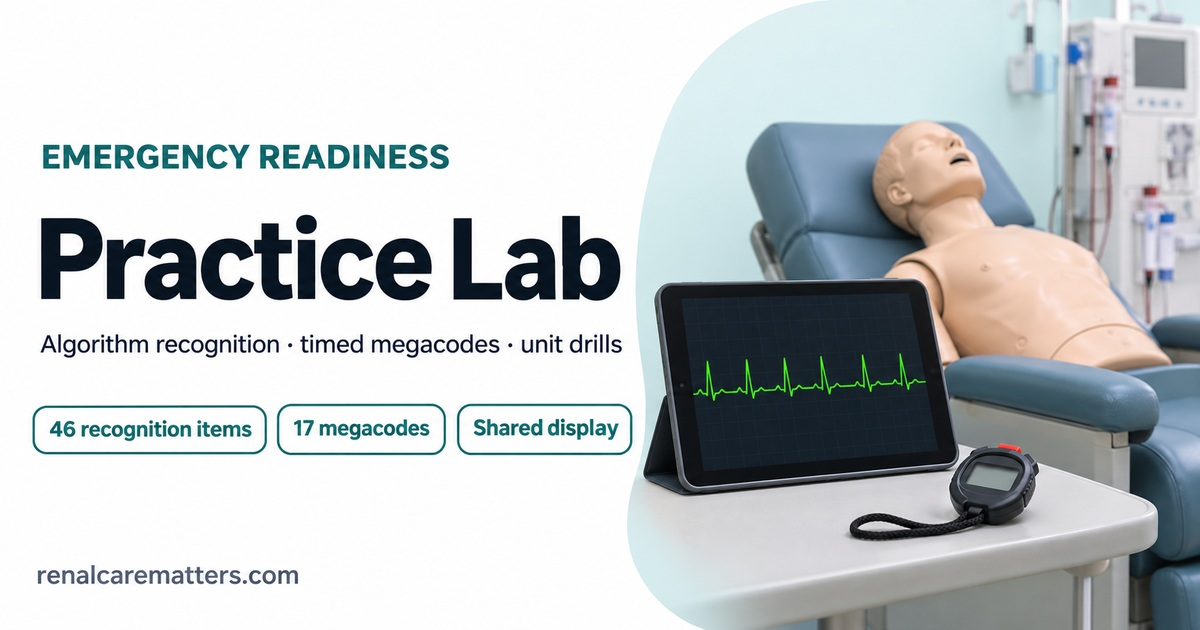
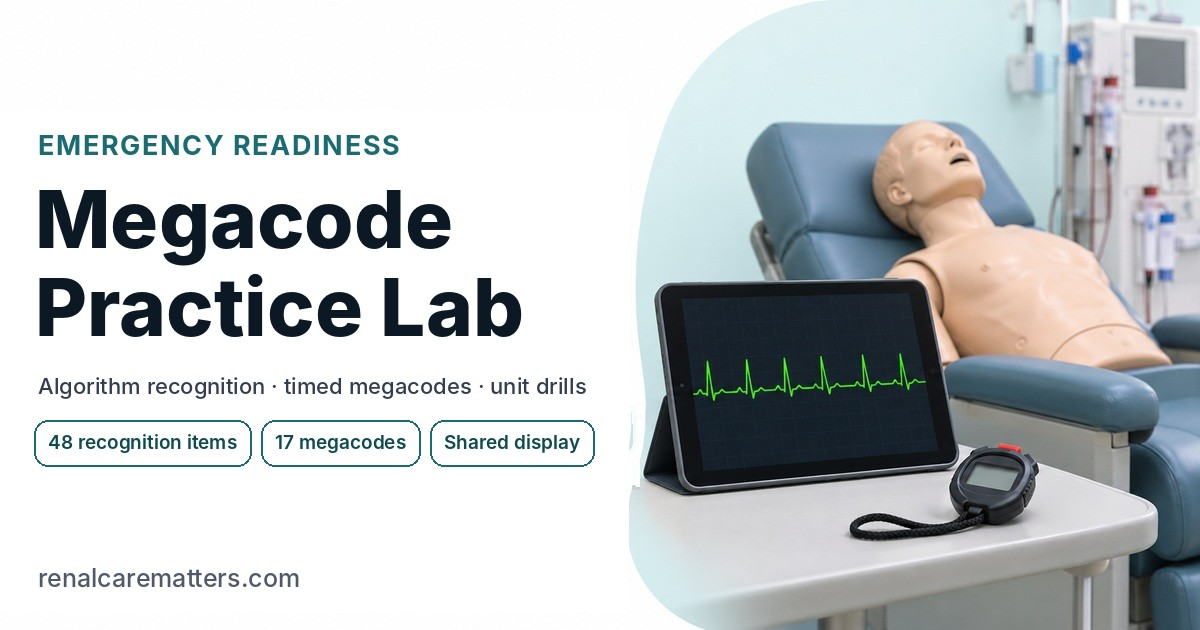
Megacode Practice Lab share card: title "Megacode Practice Lab", 48 recognition items
Claude-Session: https://claude.ai/code/session_01TPGn4KmXS3nHRPwNXSwoFv

diff --git a/tools/techcourses/resus/build_image_prompts.py b/tools/techcourses/resus/build_image_prompts.py
@@ -376,10 +376,10 @@ QUALITY CHECK: left 42% empty and light; subject fully inside the right side; no
                                 eyebrow=f"RESUSCITATION LAB · MODULE {int(k)}", head=_h.unescape(m["title"]), subtitle="Dialysis Team Resuscitation Lab · Renal Care Academy",
                                 chips=chips, art=art))
     extra = [
-        ("Practice Lab", f"{HUB}-practice", "EMERGENCY READINESS", "Practice Lab", "Algorithm recognition · timed megacodes · unit drills",
-         '"46 recognition items" · "17 megacodes" · "Shared display"', "a tablet showing a bedside monitor with a green rhythm trace (no numbers) beside a manikin in a dialysis recliner and a stopwatch"),
+        ("Megacode Practice Lab", f"{HUB}-practice", "EMERGENCY READINESS", "Megacode Practice Lab", "Algorithm recognition · timed megacodes · unit drills",
+         '"48 recognition items" · "17 megacodes" · "Shared display"', "a tablet showing a bedside monitor with a green rhythm trace (no numbers) beside a manikin in a dialysis recliner and a stopwatch"),
         ("Emergency Readiness section", "emergency-readiness", "RENAL CARE ACADEMY", "Emergency Readiness", "Act, learn and practice the first minutes on the dialysis floor",
-         '"Quick cards" · "13 modules" · "Practice Lab"', "a phone with a red-bordered card (blank lines), a tablet with a lesson page, and a small CPR manikin torso on a light counter"),
+         '"Quick cards" · "13 modules" · "Megacode Practice Lab"', "a phone with a red-bordered card (blank lines), a tablet with a lesson page, and a small CPR manikin torso on a light counter"),
         ("Final exam", f"{HUB}-final-exam", "RESUSCITATION LAB", "End-of-Course Examination", "Dialysis Team Resuscitation Lab · timed",
          '"13 modules" · "Timed" · "Certificate of completion"', "a tablet with a multiple-choice card of four blank answer bars beside a stopwatch and a folded pocket mask"),
         ("Trainer and facilitator kit", f"{HUB}-trainer", "RESUSCITATION LAB", "Facilitator Kit", "Scripts · role cards · observation checklist · debrief",
